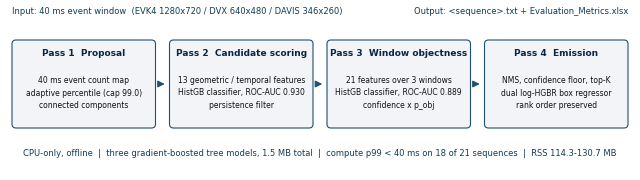
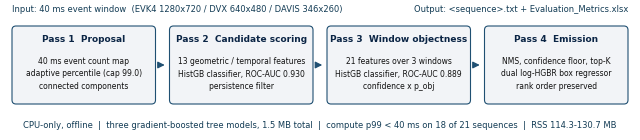
Add 4.5 architecture diagram and failure modes; fix figure path, rounding and prior-work dates; resize figures to hold 5 pages

diff --git a/experiments/make_fig2.py b/experiments/make_fig2.py
@@ -3,7 +3,7 @@ matplotlib.use("Agg")
 import matplotlib.pyplot as plt
 from matplotlib.patches import FancyBboxPatch
 
-W_PX, H_PX, DPI = 640, 180, 100
+W_PX, H_PX, DPI = 640, 140, 100
 
 fig = plt.figure(figsize=(W_PX / DPI, H_PX / DPI), dpi=DPI)
 ax = fig.add_axes([0, 0, 1, 1])
@@ -26,11 +26,11 @@ left, right = 12.0, 628.0
 gap = 14.0
 n = len(stages)
 bw = (right - left - gap * (n - 1)) / n
-by, bh = 52.0, 88.0
+by, bh = 36.0, 78.0
 
-ax.text(left, 168, "Input: 40 ms event window  (EVK4 1280x720 / DVX 640x480 / DAVIS 346x260)",
+ax.text(left, 130, "Input: 40 ms event window  (EVK4 1280x720 / DVX 640x480 / DAVIS 346x260)",
         fontsize=6.0, va="center", ha="left", color="#133c55")
-ax.text(right, 168, "Output: <sequence>.txt + Evaluation_Metrics.xlsx",
+ax.text(right, 130, "Output: <sequence>.txt + Evaluation_Metrics.xlsx",
         fontsize=6.0, va="center", ha="right", color="#133c55")
 
 for i, (title, detail) in enumerate(stages):
@@ -48,7 +48,7 @@ for i, (title, detail) in enumerate(stages):
                     xytext=(x + bw + 2, by + bh / 2),
                     arrowprops=dict(arrowstyle="-|>", linewidth=0.9, color="#205072"))
 
-ax.text(W_PX / 2, 26,
+ax.text(W_PX / 2, 15,
         "CPU-only, offline  |  three gradient-boosted tree models, 1.5 MB total  |  "
         "compute p99 < 40 ms on 18 of 21 sequences  |  RSS 114.3-130.7 MB",
         fontsize=6.0, ha="center", va="center", color="#133c55")

diff --git a/PROPOSAL.md b/PROPOSAL.md
@@ -55,7 +55,7 @@ Sub-split behaviour shows the gain is largest exactly where the baseline was wea
 
 ## 3. Value Proposition and Competitive Positioning
 
-**Every number is reproducible, and the artifact is the evidence.** The container has been run six times with identical detection counts, the last three on the shipped configuration with identical mAP to six decimals. The submitted image is built from the exact commit in the repository, and in-process metrics agree with the official evaluator to 5.6e-17. Nothing here is estimated. Two configurations that improved precision, recall and F1 while *reducing* mAP were diagnosed rather than shipped; that diagnosis - the metric was ranking-limited, not recall-limited - produced the +49.1% gain in all-21 mAP.
+**Every number is reproducible, and the artifact is the evidence.** The container has been run six times with identical detection counts, the last three on the shipped configuration with identical mAP to six decimals. The submitted image is built from the exact commit in the repository, and in-process metrics agree with the official evaluator to 5.55e-17. Nothing here is estimated. Two configurations that improved precision, recall and F1 while *reducing* mAP were diagnosed rather than shipped; that diagnosis - the metric was ranking-limited, not recall-limited - produced the +49.1% gain in all-21 mAP.
 
 **CPU-only and genuinely offline.** Three gradient-boosted tree models totalling 1.5 MB, eight pinned dependencies, no GPU, no network. Cold start is sub-second - a deployable configuration on the stated evaluation hardware, not a research prototype requiring accelerators.
 
@@ -97,9 +97,19 @@ Per-sensor, Arm 2 improves EVK4 0.612170 → 0.770544, DVX 0.121921 → 0.225114
 ### 4.4 Visualisation and outputs
 
 A visualisation tool renders annotated video at all three sensor resolutions with ground-truth and predicted boxes, confidences and track identifiers. Predictions are tab-separated with a header row in the evaluator's field names, one row per detection, `class_id = 0` throughout - the challenge defines a single RSO class and we do not infer a taxonomy we cannot validate.
-<img src="C:/Users/Vicky/Desktop/OrbitSight/OrbitSight_Research/experiments/frames/fig1.png">
+<img src="experiments/frames/fig1.png">
 **Figure 1.** EVK4 window, cropped. Green: ground truth. Orange: prediction with confidence and track ID. Rendered by `src/visualize.py`, which ships inside the submitted image.
 
+### 4.5 Architecture and failure modes
+<img src="experiments/frames/fig2_pipeline.png">
+**Figure 2.** The shipped pipeline; counts and AUCs are the measured values from sections 2 and 4.
+
+Known failure modes, characterised rather than omitted:
+
+- **Compute p99 over budget.** `DVX_NOAA6` 84.67 ms, `EVK4_mag7.3` 77.76 ms and `EVK4_mag5.2` 58.73 ms: the densest and the two highest-resolution streams. Per-sensor decimation is the untested next lever.
+- **Regressor holdout gap.** No EVK4 sequence sits in the validation holdout, so the EVK4 per-sensor gain is the least independently supported figure in this proposal.
+- **Sizing without centroid correction.** Arm 1 raised precision, recall and F1 yet lost mAP: 1,087 detections fell from IoU 0.50-0.55 to 0.40-0.49. Published rather than omitted.
+- **Sparse-sequence weakness.** The ten sequences with 43 ground-truth boxes or fewer remain the weakest regime; Arm 2 lifts mAP from 0.100600 to 0.226600, still below the dense-sequence 0.304353.
 ## 5. Team Capacity
 
 This is a solo entry. The author is in the final semester of an MCA at D. Y. Patil Institute of MCA and Management, Pune (Savitribai Phule Pune University), following a BCA from the same university. From 1 December 2025 to 30 May 2026 he worked as an Applied AI Engineer at Ovva Tech, where he built an AI-driven recruitment platform (React/Next.js with a Flask backend) spanning MCQ, coding and interview assessment modules, including a proctoring subsystem migrated from a hosted vision API to local CPU-based OpenCV face detection.
@@ -114,6 +124,6 @@ Three public repositories predate this Challenge, which the author learned of on
 
 AirWrite (first commit 19 December 2025) is a real-time computer-vision application in Python using OpenCV and MediaPipe: webcam capture, per-frame hand-landmark detection, temporal smoothing for tracking stability, and a gesture state machine driving on-screen interaction. It is the closest antecedent to OrbitSight's per-window detection and cross-window temporal association.
 
-The Automated Recruitment System (May-June 2026), built during that role, ships with a project report, test plan, data-flow and class diagrams, and a CSV test-case matrix. Its proctoring module was deliberately migrated from a hosted vision API to local OpenCV face detection on CPU, the same offline-first constraint this Challenge imposes.
+The Automated Recruitment System (begun May 2026 during that role) ships with a project report, test plan, data-flow and class diagrams, and a CSV test-case matrix. Its proctoring module was deliberately migrated from a hosted vision API to local OpenCV face detection on CPU, the same offline-first constraint this Challenge imposes.
 
 Neural-Networks (from 14 April 2026) is a continual-learning research codebase. A custom architecture was built, evaluated against transformer baselines, and then measured against standard protocols. Those measurements did not support the architecture: joint offline training was found to lose to no training at all on the internal benchmark (adaptation gap -6.00 pp), so the benchmark was retired and the work moved to Split-CIFAR-100 with Class-IL R[t,i] matrix evaluation and orthogonal gradient projection. The repository retains the negative results and the retractions in full. Development used a branch-and-pull-request workflow; implementation is agent-executed under the author's direction, with experiment design, protocol rules and verification retained by the author.
